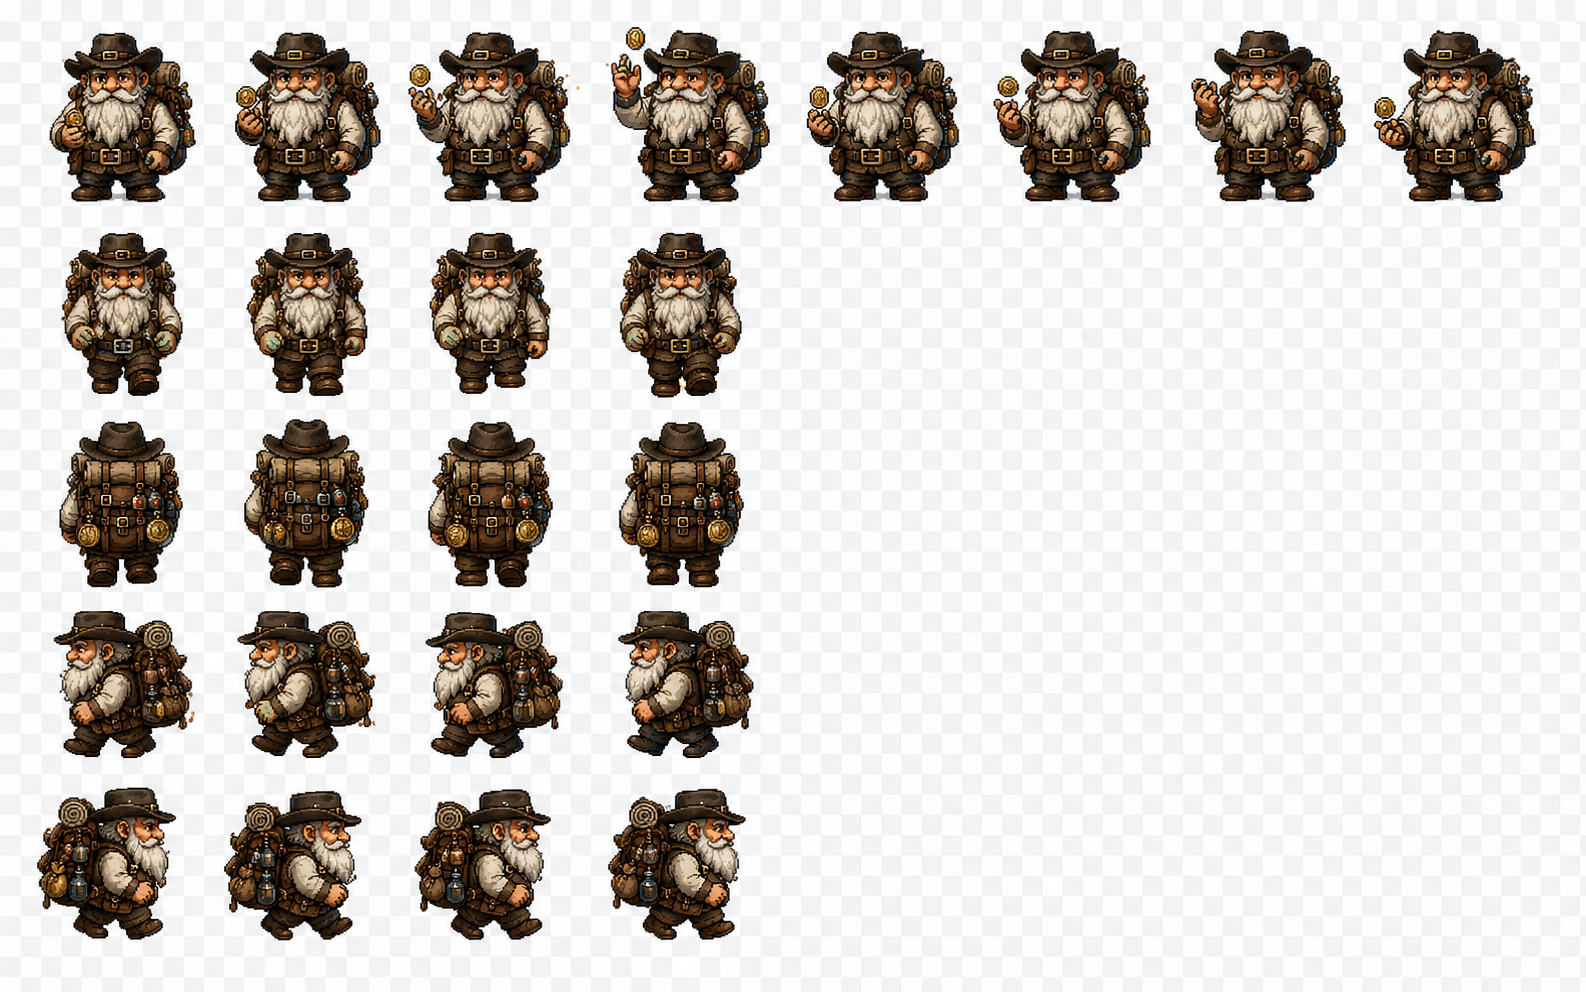
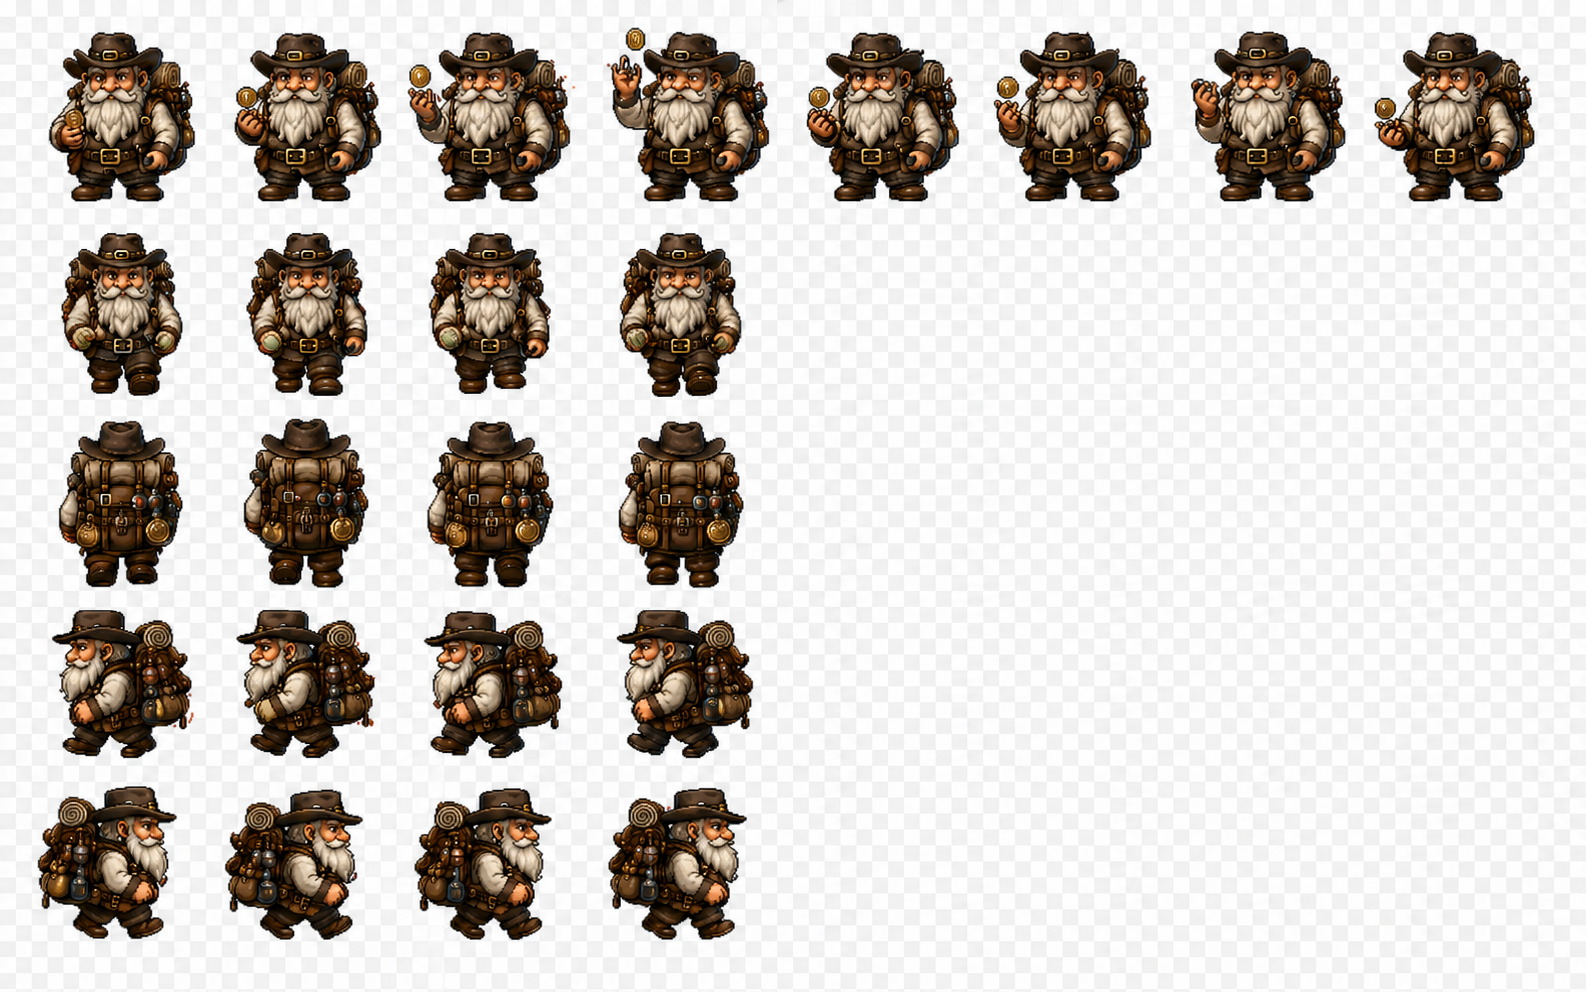
[technique] Marchand : source blanche propre + taille de case figee (104x88)
Nouvel upload de la feuille (fond blanc uniforme au lieu du damier aplati)
adopte comme source canonique. L'outil recentre desormais les frames dans
une case de largeur FIXE (104) : la taille ne bougera plus d'une
regeneration a l'autre (avant elle variait 99-101 selon le detourage).
Sprite visuellement identique. Doublon images/pnj/Marchand-1.png retire
(la source vit dans images/sources/).

Claude-Session: https://claude.ai/code/session_01JJcbumK5KWRfGozDrLY2Kn

Changed region(s): [[0.0309, 0.0312, 0.9887, 0.5938], [0.0, 0.4375, 0.4943, 0.9688], [0.1545, 0.25, 0.4634, 0.4062]]

diff --git a/jeu/principal.js b/jeu/principal.js
@@ -124,15 +124,15 @@ export async function demarrerJeu(donneesInitiales = null) {
     xMax: 40 * TUILE - 11,
   });
   // Renaud (marchand de TEST), STATIONNAIRE près de la sortie (rangée 11).
-  // Sprite 101×88 → offsets pour le centrer sur la tuile (−35) et poser ses pieds
+  // Sprite 104×88 → offsets pour le centrer sur la tuile (−36) et poser ses pieds
   // à la même hauteur qu'avant (rangée 11,5 → −72).
   const marchand = creerPnj({
     modele: MARCHAND,
     planche: planches.get(MARCHAND.planche),
-    x: 38 * TUILE - 35,
+    x: 38 * TUILE - 36,
     y: 11 * TUILE - 72,
-    xMin: 38 * TUILE - 35,
-    xMax: 38 * TUILE - 35,
+    xMin: 38 * TUILE - 36,
+    xMax: 38 * TUILE - 36,
   });
   // FONTAINE (build de TEST) : près de la porte de sortie. On lui parle
   // pour gagner 1 niveau d'un coup → tester l'arbre de talents sans farmer.

diff --git a/jeu/data/pnj.js b/jeu/data/pnj.js
@@ -32,7 +32,7 @@ export const MARCHAND = {
   nom: "Renaud",
   planche: "images/pnj/marchand.png",
   sprite: {
-    caseL: 101,
+    caseL: 104,
     caseH: 88,
     anims: {
       repos:   { frames: [0], ips: 1, boucle: true },                 // debout, immobile

diff --git a/outils/importer_marchand.py b/outils/importer_marchand.py
@@ -22,6 +22,7 @@ from PIL import Image, ImageFilter
 SRC = 'images/sources/marchand-source.png'
 OUT = 'images/pnj/marchand.png'
 CASE_H = 88            # hauteur cible de la case (jeu)
+CASE_L = 104           # largeur FIXE de la case (marge autour du nain le plus large)
 BY0, BY1 = 20, 212     # bande verticale de la ligne 1 (de face)
 # Colonnes (x) des 8 nains dans la source (le reste = pièce en l'air, ignoré).
 COLS = [(49,196),(235,381),(408,571),(611,770),(806,960),(993,1151),(1191,1346),(1374,1536)]
@@ -87,11 +88,18 @@ def main():
         cx = leg_cx(a, b, t, d) - a
         strip.alpha_composite(fr, (int(round(i*CWn + CWn/2 - cx)), int(round(CHn - pad - (d-t)))))
 
-    # 5) Mise à l'échelle jeu.
+    # 5) Mise à l'échelle jeu, puis recentrage dans une case de largeur FIXE
+    #    (CASE_L) : ainsi la taille de case ne bouge JAMAIS d'une régénération à
+    #    l'autre (sinon le code devrait être réajusté à chaque nouvel upload).
     scale = CASE_H / CHn
-    CW = round(CWn*scale); CH = round(CHn*scale)
-    strip.resize((CW*8, CH), Image.LANCZOS).save(OUT)
-    print(f'{OUT} : caseL={CW} caseH={CH} (8 frames)')
+    cw = round(CWn * scale)
+    scaled = strip.resize((cw*8, CASE_H), Image.LANCZOS)
+    out = Image.new('RGBA', (CASE_L*8, CASE_H), (0, 0, 0, 0))
+    for i in range(8):
+        cell = scaled.crop((i*cw, 0, (i+1)*cw, CASE_H))
+        out.alpha_composite(cell, ((CASE_L - cw)//2 + i*CASE_L, 0))
+    out.save(OUT)
+    print(f'{OUT} : caseL={CASE_L} caseH={CASE_H} (8 frames)')
 
 
 if __name__ == '__main__':
